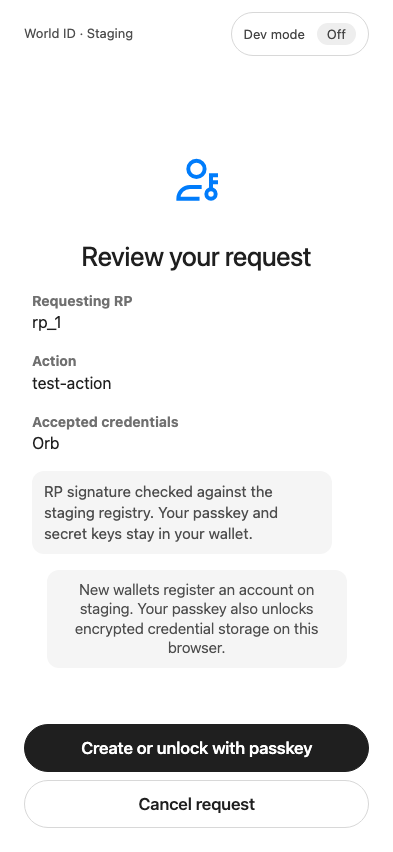
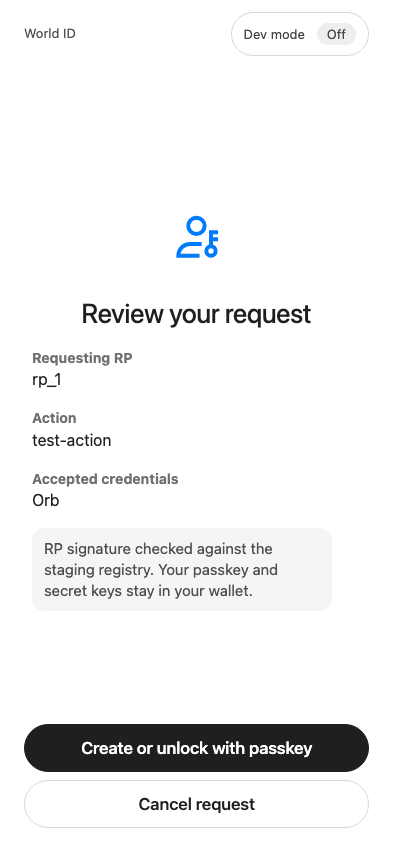
Document published package boundary and refresh UI review captures

Changed region(s): [[0.0611, 0.4883, 0.8244, 0.7629], [0.0611, 0.1831, 0.7939, 0.4577], [0.2137, 0.0305, 0.3359, 0.061]]

diff --git a/docs/review/README.md b/docs/review/README.md
@@ -1,5 +1,7 @@
-# Request review screenshots
+# UI review screenshots
 
-Chromium at 393×852 and 1280×900. Captured from the built authenticator using
-a test-only signed Orb request and mocked registry/bridge endpoints. These images
-show responsive UI validation, not a live staging enrollment or RP verification.
+Captured from the built app on October 14, 2026, in Chromium: home at 393×852
+and 1280×900, developer mode at 320×852 and 1280×900, and requests at 393×852
+and 1280×900. Request screenshots use a test-only signed Orb request and mocked
+registry/bridge endpoints. These images show responsive UI validation, not a
+live staging enrollment or RP verification.

diff --git a/experiments/README.md b/experiments/README.md
@@ -3,6 +3,8 @@
 `tee-demo/` preserves the earlier localhost demo, including the local WalletKit
 #604 adapter and TEE routes. It is not the default application. Its source and
 local-package dependency are retained for the next TEE integration step.
+The published WalletKit `0.27.1` used by the product does not expose this demo's
+`extractSelfieEmbedding` API, so the demo cannot use that release unchanged.
 
 The canonical UI and registration flow now live in `web`.
 Use the repository-root commands for that app. The pre-convergence checkpoint is

diff --git a/README.md b/README.md
@@ -4,6 +4,8 @@ Unlock your World ID wallet with a passkey and approve requests from apps.
 Currently uses staging and supports proofs with existing Orb and Selfie
 credentials. Selfie enrollment, user presence and recovery are still to come.
 
+The app uses published packages, including WalletKit `0.27.1`.
+
 ## Run locally
 
 Install [Bun](https://bun.sh) **1.4.2**, then:
